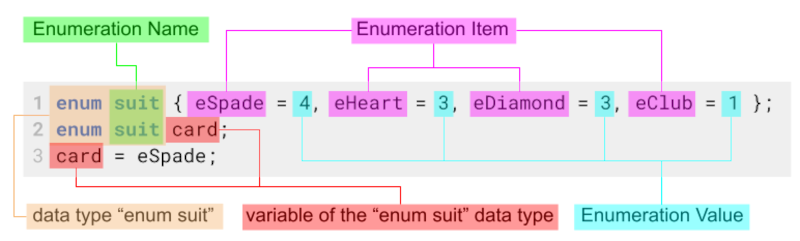
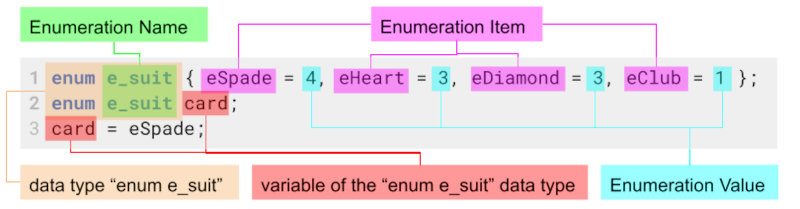
update enum chapter

diff --git a/docs/books/c_programming_jeff_szuhay/part_1_c_fundamentals/8_creating_and_using_enumerations.md b/docs/books/c_programming_jeff_szuhay/part_1_c_fundamentals/8_creating_and_using_enumerations.md
@@ -6,7 +6,7 @@ sidebar_position: 8
 
 ### What are Enumerations?
 
-Enumeration or Enum in C is a special kind of data type defined by the user. It consists of constant integrals or integers that are given names by a user. The use of enum in C to name the integer values makes the entire program easy to learn, understand, and maintain by the same or even different programmer.
+Enumeration or Enum in C is a special kind of data type defined by the user. It consists of constant integers that are given names by a user. The use of enum in C to name the integer values makes the entire program easy to learn, understand, and maintain by the same or even different programmer.
 
 - allow us to group conceptually related values together in an set (_to make the relationship between each value clear_)
 - helps to write more readable code, by grouping related values together, which can be used by an meaningful name
@@ -18,20 +18,21 @@ Enumeration or Enum in C is a special kind of data type defined by the user. It 
 
 ![enum data type](./img/enum_data_type.png)
 
-- **line 1:** defines the `enum suit` data type, the name is arbitrary
+- **line 1:** defines the `enum e_suit` data type, the name is arbitrary
+  - **CONVENTION:** enum names should be named lowercase and starting with `e_` followed by the name
   - **NOTE:** "enumeration item names" need to be uniq, but there values can be the same
-- **line 2:** declare a variable of the data type `enum suit` with the name `card`
+- **line 2:** declare a variable of the data type `enum e_suit` with the name `card`
 - **line 3:** assign a value `4` to the variable `card`
 
 #### without defining values
 
 ```c title="let the compiler assign values"
- enum suit { eSpade, eHeart, eDiamond, eClub };
+ enum e_suit { eSpade, eHeart, eDiamond, eClub };
  // the values are up to the compiler, usually they are sequenced from: 0, 1, 2, 3
 ```
 
 ```c title="can be assigned by compiler and programmer"
- enum suit { eSpade = 0, eHeart, eDiamond, eClub = 2};
+ enum e_suit { eSpade = 0, eHeart, eDiamond, eClub = 2};
  // the undefined values are up to the compiler, does not consider set values: 0, 1, 2, 2
 ```
 
@@ -50,16 +51,16 @@ if (card == 1)      // the same as above
 ### scoping the enum data type
 
 ```c title="global (anywhere accessible in the whole file, but not in other files)"
-enum something { someA = 1, someB = 2, someC = 5 };
+enum e_something { someA = 1, someB = 2, someC = 5 };
 
 int	main(void){
-    enum something hello;}
+    enum e_something hello;}
 ```
 
 ```c title="local (only within the block and its sub blocks )"
 int	main(void){
-    enum something { someA = 1, someB = 2, someC = 5 };
-    enum something hello;
+    enum e_something { someA = 1, someB = 2, someC = 5 };
+    enum e_something hello;
     if (true)
         // "hello" is accessible
 }

diff --git a/docs/books/c_programming_jeff_szuhay/part_2_complex_data_types/9_creating_and_using_structures.md b/docs/books/c_programming_jeff_szuhay/part_2_complex_data_types/9_creating_and_using_structures.md
@@ -1,0 +1,52 @@
+---
+sidebar_position: 1
+---
+
+# 9. Creating and using Structures
+
+A structure is a user-defined type. There may be multiple values in a structure and they may be of the same type or different types. A structure, then, is a collection of information representing a complex object.
+
+## Declaring Structures
+
+### defining a structure type
+
+```c title="defining a 'enum e_suit' for the structure below"
+ enum e_suit { eSpade = 1, eHeart = 2, eDiamond = 3, eClub = 4 };
+```
+
+![diagram structure declaration](../part_2_complex_data_types/img/declaring_structure.png)
+
+- **CONVENTION:** structure names should be in lowercase and start with the prefix `s_`
+- each component can be of any intrinsic data type (_Integer, Real, Boolean, Char, ..._) or any **previously** defined custom type (enum, a structure within a structure)
+- components can't be initialized within a structure when the structure is defined
+- the initialization of components is done when a variable of that structure type is declared
+
+### initializing structures
+
+Structures can be initialized in 3 different ways:
+
+#### 1. initializing all components with 0
+
+```c
+struct s_card card = {0};  // Entire structure is zero-d.
+```
+
+- initializing a instance of the structure `s_card` with the name `card` and every component with the value `0`
+- can only done when the variable (_'card' in this example_) is declared
+
+#### 2. at the time of declaration
+
+```c
+struct s_card card = { eSpade , (int) eHeart , false };
+```
+
+- must be in the same order in which the structure was declared
+
+#### 3. assigning a already initiated structure of the same type
+
+```c
+struct s_card card = card_0;
+```
+
+- creates an copy of the before initiated structure `card_0`
+- components and padding must match for bitwise assignment to work
